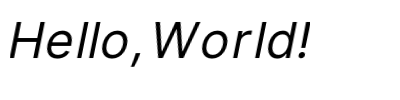
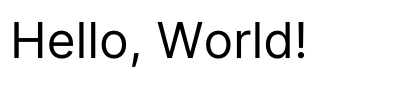
refactor: use imageproc

Changed region(s): [[0.39, 0.21, 0.78, 0.6], [0.0, 0.21, 0.36, 0.66]]

diff --git a/src/main.rs b/src/main.rs
@@ -1,31 +1,29 @@
 use image::{imageops::overlay, DynamicImage, Rgba, RgbaImage};
-use imageproc::geometric_transformations::{warp_into, Interpolation, Projection};
-use imageutil::text::{empty_resolver, Fonts};
+use imageproc::{
+    drawing::draw_text_mut,
+    geometric_transformations::{warp_into, Interpolation, Projection},
+};
 use once_cell::sync::Lazy;
 use rusttype::{Font, Scale};
 
 const INTER: Lazy<Font> =
     Lazy::new(|| Font::try_from_bytes(include_bytes!("../fonts/Inter-Regular.ttf")).unwrap());
-const FONT_SETTING: Lazy<Vec<Font<'static>>> = Lazy::new(|| vec![INTER.clone()]);
 
 #[tokio::main]
 async fn main() {
     let mut img = DynamicImage::new_rgba8(400, 100);
-    let fonts = Fonts::new(FONT_SETTING.clone());
 
     let mut text_image = DynamicImage::new_rgba8(300, 80);
     let mut italic_text_image = RgbaImage::new(300, 80);
-    fonts
-        .write_to(
-            &mut text_image,
-            "Hello, World!",
-            Scale::uniform(60.0),
-            Rgba::from([0, 0, 0, 255]),
-            0,
-            0,
-            empty_resolver,
-        )
-        .await;
+    draw_text_mut(
+        &mut text_image,
+        Rgba::from([0, 0, 0, 255]),
+        0,
+        0,
+        Scale::uniform(60.0),
+        &INTER.clone(),
+        "Hello, World!",
+    );
 
     let matrix = Projection::from_matrix([
         1_f32,    // 固定
